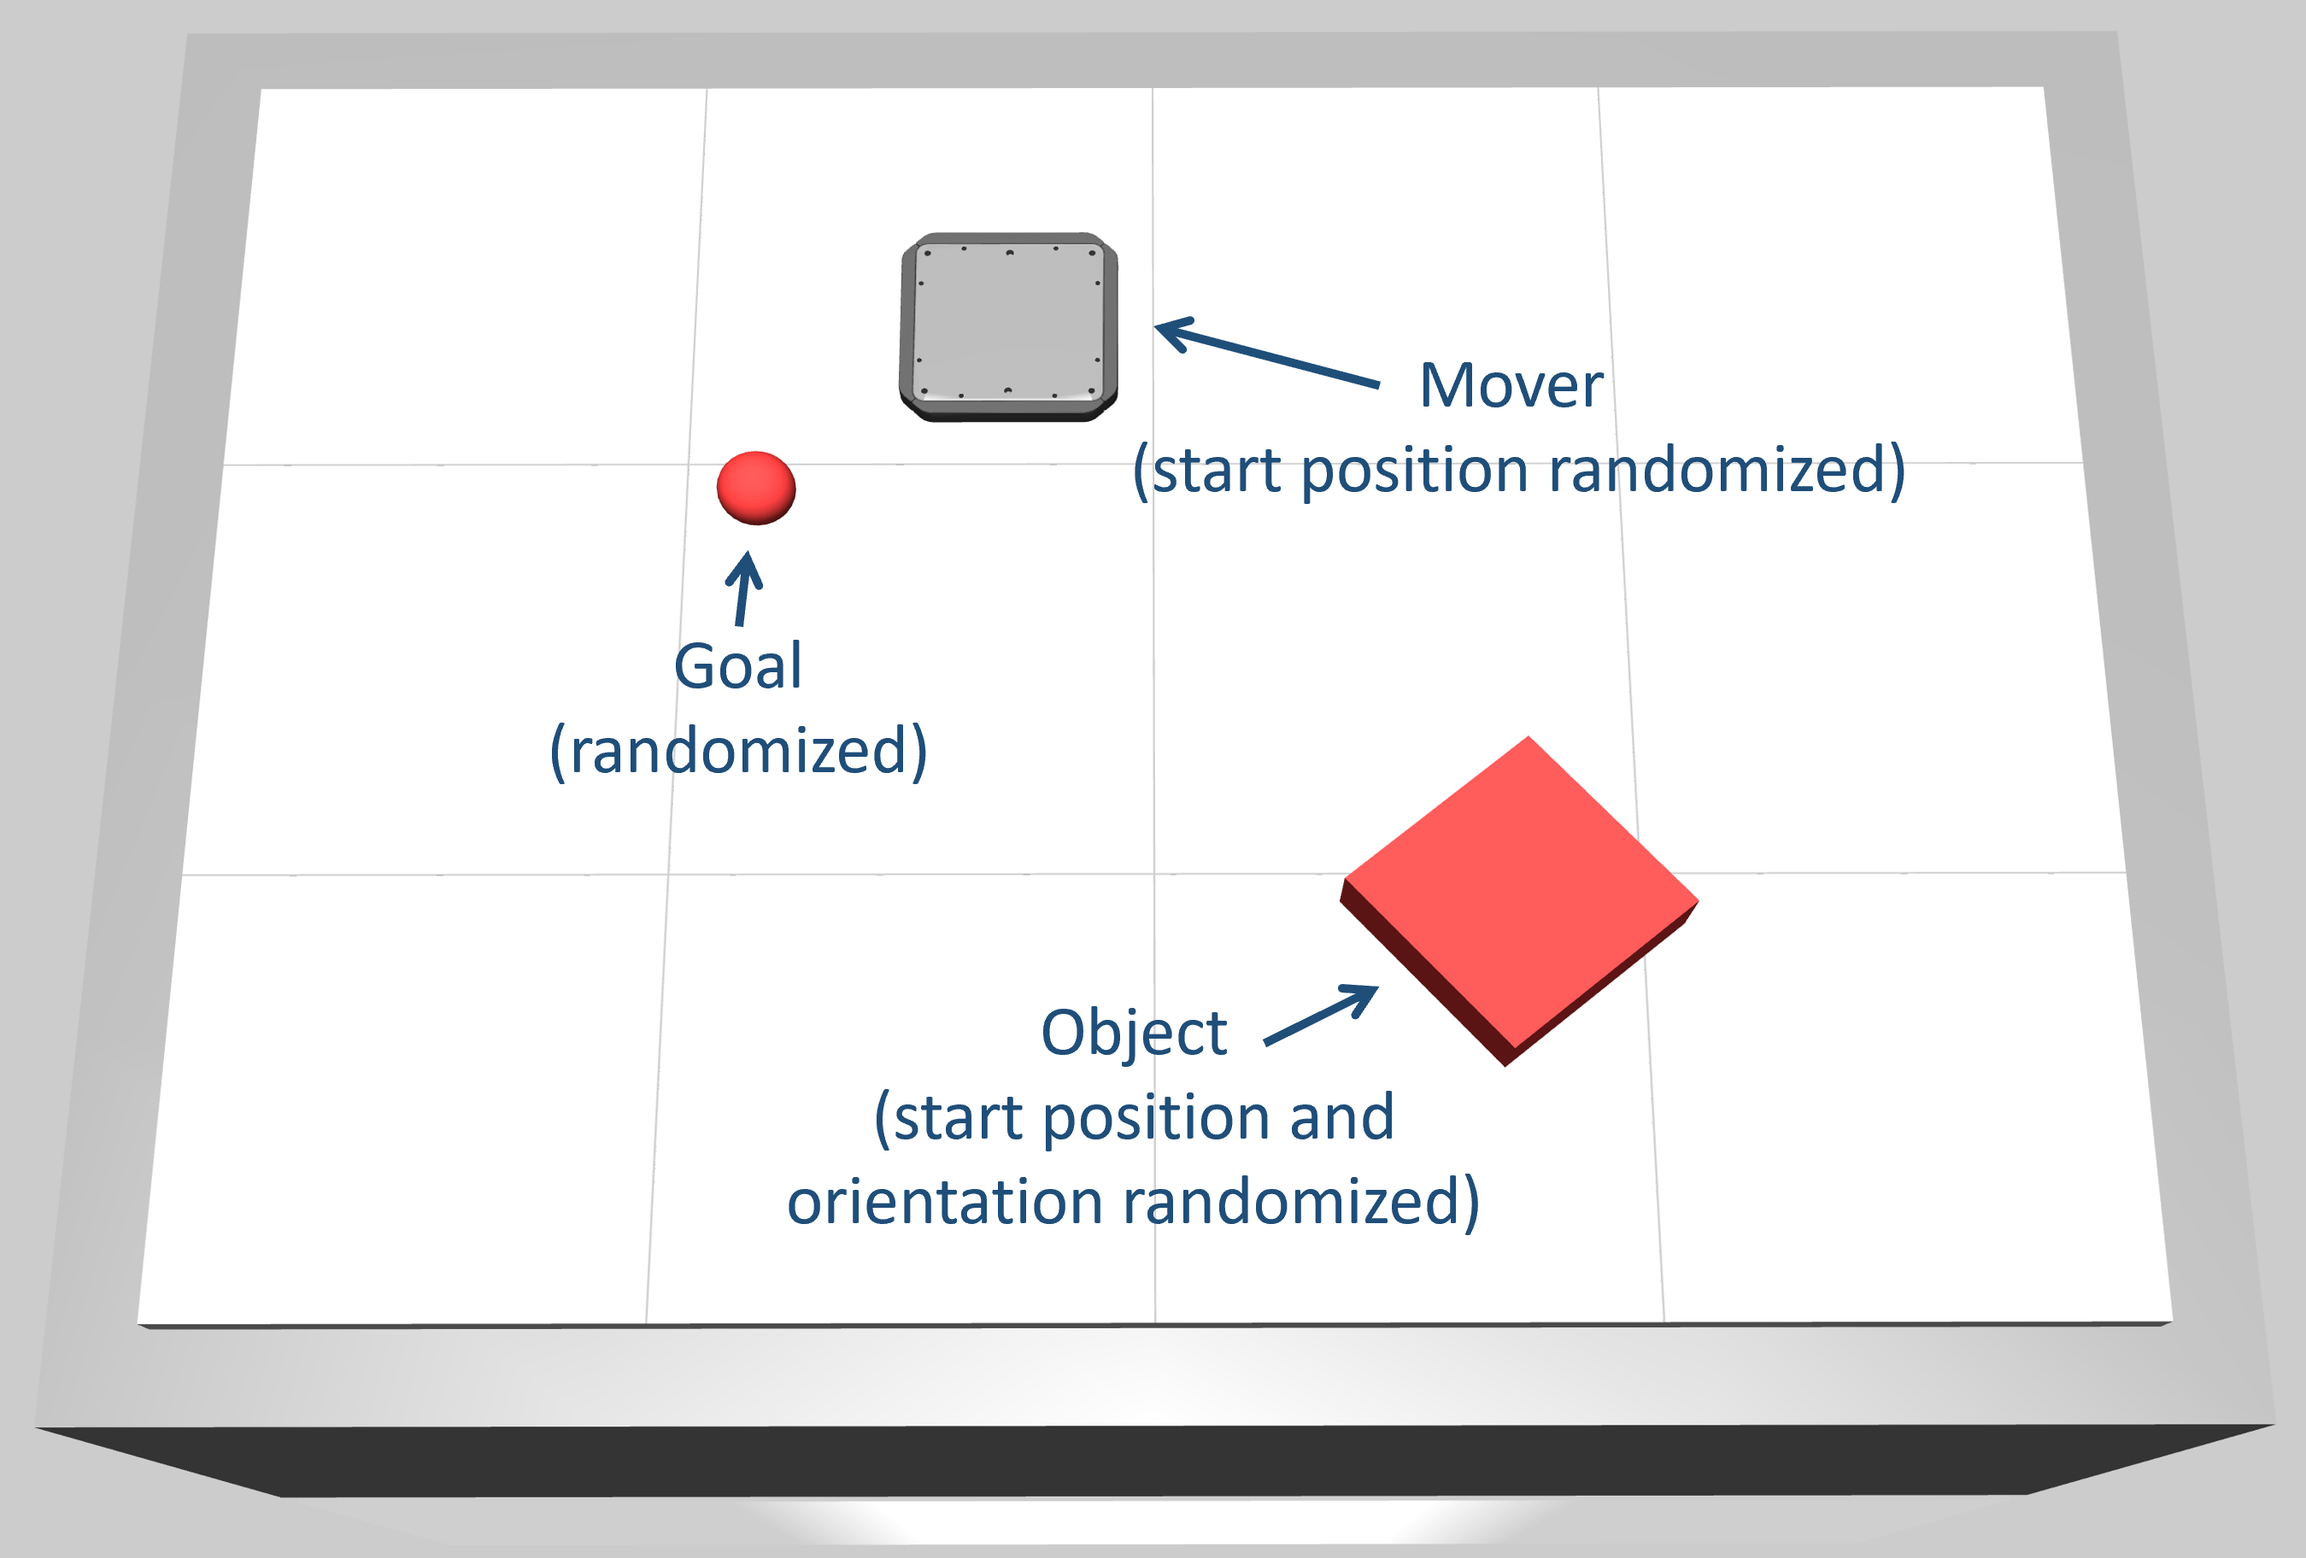
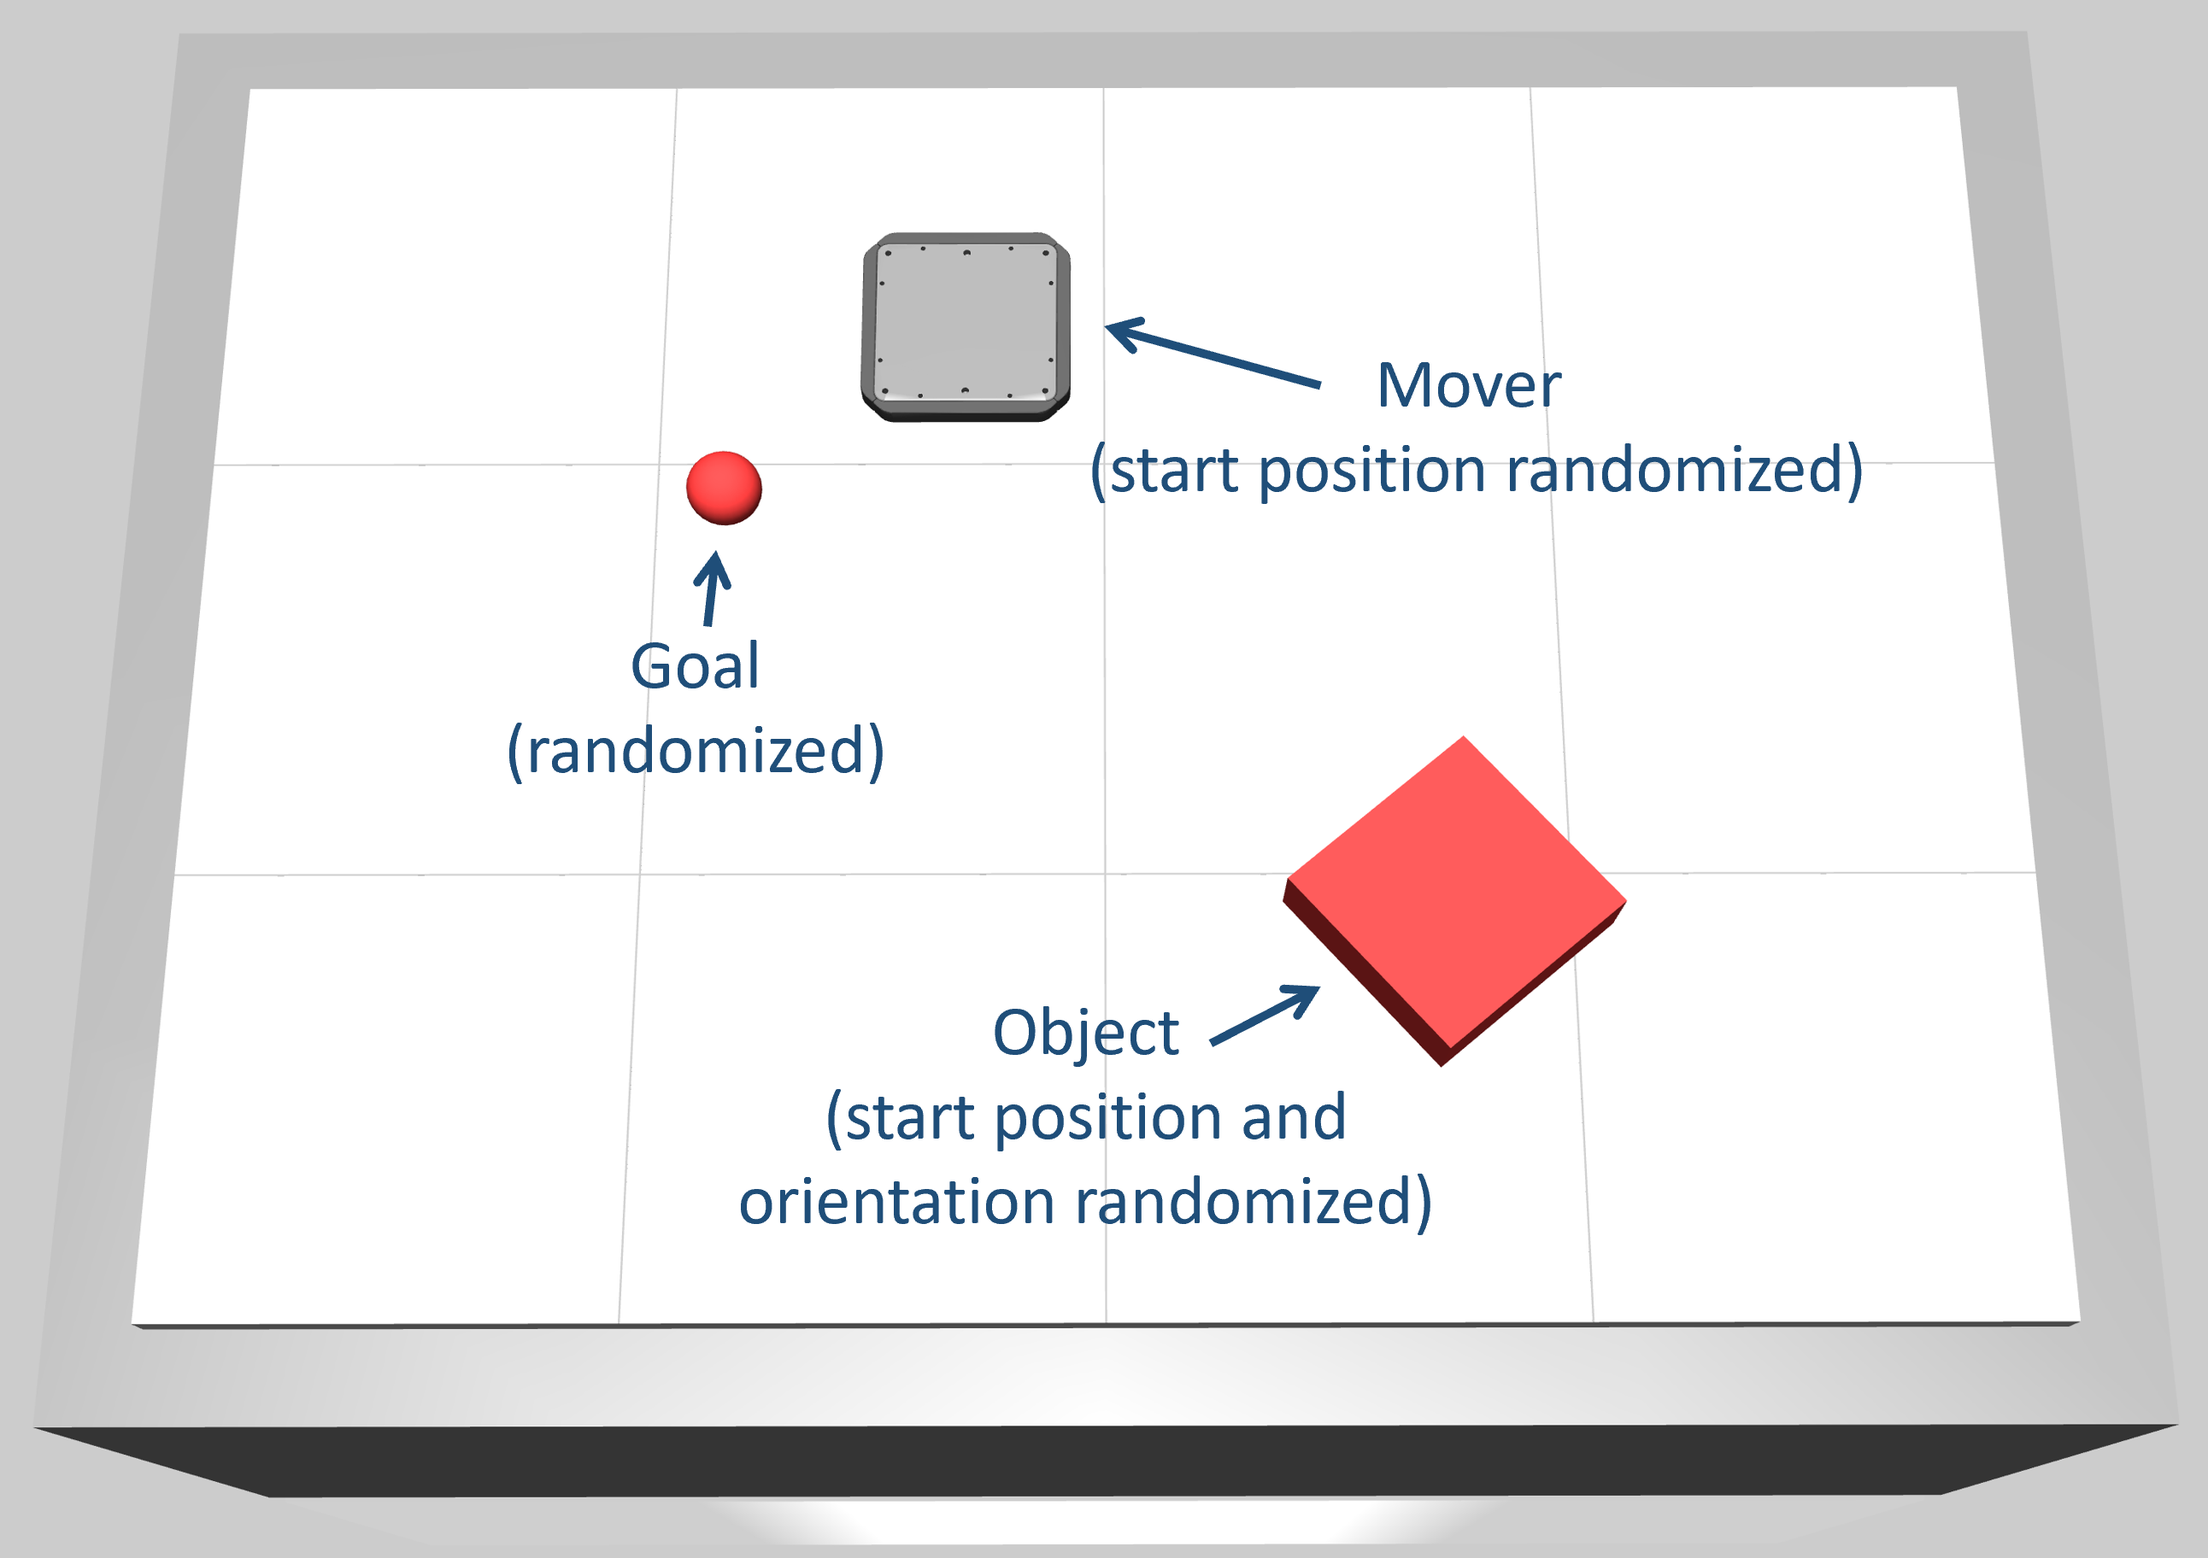
Add documentation for Push-X and Push-L environments (#2)
* Add documentation for Push-X and Push-L environments

* update env images and fix image paths

* add gym.register_envs to env basic usage

---------

Changed region(s): [[0.3406, 0.6562, 0.6502, 0.8125], [0.4954, 0.2188, 0.8359, 0.3438], [0.2167, 0.4062, 0.4025, 0.5]]

diff --git a/magbotsim/__init__.py b/magbotsim/__init__.py
@@ -63,31 +63,24 @@ def register_gymnasium_envs():
             entry_point=f'magbotsim.rl_envs.object_manipulation.pushing.state_based_push_box_env:StateBasedPushBoxEnvB{i}',
         )
 
-    register(
-        id='StateBasedPushTEnv-v0',
-        entry_point='magbotsim.rl_envs.object_manipulation.pushing.state_based_push_t_env:StateBasedPushTEnv',
-        max_episode_steps=50,
-    )
+    # Letter-Pushing Envs
+    for letter in ['t', 'x', 'l']:
+        env_name = f'StateBasedPush{letter.upper()}Env'
+        path = f'magbotsim.rl_envs.object_manipulation.pushing.state_based_push_{letter}_env'
 
-    # Push T Benchmarks
-    for i in range(len(BENCHMARK_PLANNING_LAYOUTS)):
+        # Base Environment
         register(
-            id=f'StateBasedPushTEnvB{i}-v0',
-            entry_point=f'magbotsim.rl_envs.object_manipulation.pushing.state_based_push_t_env:StateBasedPushTEnvB{i}',
+            id=f'{env_name}-v0',
+            entry_point=f'{path}:{env_name}',
+            max_episode_steps=50,
         )
 
-    register(
-        id='StateBasedPushXEnv-v0',
-        entry_point='magbotsim.rl_envs.object_manipulation.pushing.state_based_push_x_env:StateBasedPushXEnv',
-        max_episode_steps=50,
-    )
-
-    # Push X Benchmarks
-    for i in range(len(BENCHMARK_PLANNING_LAYOUTS)):
-        register(
-            id=f'StateBasedPushXEnvB{i}-v0',
-            entry_point=f'magbotsim.rl_envs.object_manipulation.pushing.state_based_push_x_env:StateBasedPushXEnvB{i}',
-        )
+        # Benchmark Environments
+        for i in range(len(BENCHMARK_PLANNING_LAYOUTS)):
+            register(
+                id=f'{env_name}B{i}-v0',
+                entry_point=f'{path}:{env_name}B{i}',
+            )
 
 
 register_gymnasium_envs()

diff --git a/docs/environments/state_based_push_x_env.rst b/docs/environments/state_based_push_x_env.rst
@@ -1,20 +1,23 @@
-.. _state_based_push_box_env:
+.. _state_based_push_x_env:
 
-State-Based Push-Box Environment
-================================
+State-Based Push-X Environment
+==============================
 
-The ``StateBasedPushBoxEnv`` is an object pushing environment with a T-shaped object:
+The ``StateBasedPushXEnv`` is an object pushing environment with an X-shaped object:
 
-.. image:: ../_static/envs/img_push_box_env_1_mover.png
+.. image:: ../_static/envs/img_push_x_env_1_mover.png
     :width: 40%
     :align: center
 
-This environment is a preconfigured version of :ref:`state_based_global_pushing_env` specifically designed for the box pushing task, 
-similar to the ``FetchPush``-Environment contained in the `Gymnasium-Robotics <https://robotics.farama.org/envs/fetch/push/>`_ library 
-and introduced in `Multi-Goal Reinforcement Learning: Challenging Robotics Environments and Request for Research <https://doi.org/10.48550/arXiv.1802.09464>`_. 
-However, in this environment, the number of movers used for pushing can be configured, making it possible to control multiple movers. 
-Please refer to the :ref:`state_based_global_pushing_env` for additional information about the observation space, action space, immediate rewards, 
-episode termination/truncation, and environment reset.
+The Push-X task is a manipulation benchmark where the goal is to push an X-shaped object to a target
+pose (position and orientation). Similar to the Push-T task, this challenge requires precise control to achieve
+both translational and rotational alignment of the asymmetric object. The X-shape presents unique symmetry properties
+compared to the T-shape and L-shape, with its four-fold rotational symmetry making orientation alignment particularly
+interesting.
+
+This environment is a preconfigured version of :ref:`state_based_global_pushing_env` specifically designed for the
+Push-X manipulation task. Please refer to the :ref:`state_based_global_pushing_env` for additional information about
+the observation space, action space, immediate rewards, episode termination/truncation, and environment reset.
 
 Basic Usage
 -----------
@@ -37,11 +40,11 @@ described in the `documentation <https://stable-baselines3.readthedocs.io/en/mas
     gym.register_envs(magbotsim)
 
     render_mode = None
-    mover_params = {'size': np.array([0.113 / 2, 0.113 / 2, 0.012 / 2]), 'mass': 0.628}
-    collision_params = {'shape': 'box', 'size': np.array([0.113 / 2 + 1e-6, 0.113 / 2 + 1e-6]), 'offset': 0.0, 'offset_wall': 0.0}
+    mover_params = {'size': np.array([0.155 / 2, 0.155 / 2, 0.012 / 2]), 'mass': 1.24}
+    collision_params = {'shape': 'box', 'size': np.array([0.155 / 2 + 1e-6, 0.155 / 2 + 1e-6]), 'offset': 0.0, 'offset_wall': 0.0}
     env_params = {'mover_params': mover_params, 'collision_params': collision_params, 'render_mode': render_mode}
 
-    env = gym.make('StateBasedPushBoxEnv-v0', **env_params)
+    env = gym.make('StateBasedPushXEnv-v0', **env_params)
     # copy_info_dict=True, as information about collisions is stored in the info dictionary to avoid
     # computationally expensive collision checking calculations when the data is relabeled (HER)
     model = SAC(
@@ -59,7 +62,7 @@ Version History
 
 Parameters
 ----------
-.. automodule:: magbotsim.rl_envs.object_manipulation.pushing.state_based_push_box_env
+.. automodule:: magbotsim.rl_envs.object_manipulation.pushing.state_based_push_x_env
   :members:
   :no-index:
   :show-inheritance:

diff --git a/docs/environments/state_based_push_l_env.rst b/docs/environments/state_based_push_l_env.rst
@@ -1,20 +1,22 @@
-.. _state_based_push_box_env:
+.. _state_based_push_l_env:
 
-State-Based Push-Box Environment
-================================
+State-Based Push-L Environment
+==============================
 
-The ``StateBasedPushBoxEnv`` is an object pushing environment with a T-shaped object:
+The ``StateBasedPushLEnv`` is an object pushing environment with an L-shaped object:
 
-.. image:: ../_static/envs/img_push_box_env_1_mover.png
+.. image:: ../_static/envs/img_push_l_env_1_mover.png
     :width: 40%
     :align: center
 
-This environment is a preconfigured version of :ref:`state_based_global_pushing_env` specifically designed for the box pushing task, 
-similar to the ``FetchPush``-Environment contained in the `Gymnasium-Robotics <https://robotics.farama.org/envs/fetch/push/>`_ library 
-and introduced in `Multi-Goal Reinforcement Learning: Challenging Robotics Environments and Request for Research <https://doi.org/10.48550/arXiv.1802.09464>`_. 
-However, in this environment, the number of movers used for pushing can be configured, making it possible to control multiple movers. 
-Please refer to the :ref:`state_based_global_pushing_env` for additional information about the observation space, action space, immediate rewards, 
-episode termination/truncation, and environment reset.
+The Push-L task is a manipulation benchmark where the goal is to push an L-shaped object to a target
+pose (position and orientation). Similar to the Push-T task, this challenge requires precise control to achieve
+both translational and rotational alignment of the asymmetric object. The L-shape adds unique dynamics compared
+to the T-shape due to its different mass distribution and geometric properties.
+
+This environment is a preconfigured version of :ref:`state_based_global_pushing_env` specifically designed for the
+Push-L manipulation task. Please refer to the :ref:`state_based_global_pushing_env` for additional information about
+the observation space, action space, immediate rewards, episode termination/truncation, and environment reset.
 
 Basic Usage
 -----------
@@ -37,11 +39,11 @@ described in the `documentation <https://stable-baselines3.readthedocs.io/en/mas
     gym.register_envs(magbotsim)
 
     render_mode = None
-    mover_params = {'size': np.array([0.113 / 2, 0.113 / 2, 0.012 / 2]), 'mass': 0.628}
-    collision_params = {'shape': 'box', 'size': np.array([0.113 / 2 + 1e-6, 0.113 / 2 + 1e-6]), 'offset': 0.0, 'offset_wall': 0.0}
+    mover_params = {'size': np.array([0.155 / 2, 0.155 / 2, 0.012 / 2]), 'mass': 1.24}
+    collision_params = {'shape': 'box', 'size': np.array([0.155 / 2 + 1e-6, 0.155 / 2 + 1e-6]), 'offset': 0.0, 'offset_wall': 0.0}
     env_params = {'mover_params': mover_params, 'collision_params': collision_params, 'render_mode': render_mode}
 
-    env = gym.make('StateBasedPushBoxEnv-v0', **env_params)
+    env = gym.make('StateBasedPushLEnv-v0', **env_params)
     # copy_info_dict=True, as information about collisions is stored in the info dictionary to avoid
     # computationally expensive collision checking calculations when the data is relabeled (HER)
     model = SAC(
@@ -59,7 +61,7 @@ Version History
 
 Parameters
 ----------
-.. automodule:: magbotsim.rl_envs.object_manipulation.pushing.state_based_push_box_env
+.. automodule:: magbotsim.rl_envs.object_manipulation.pushing.state_based_push_l_env
   :members:
   :no-index:
   :show-inheritance:

diff --git a/docs/environments/state_based_global_pushing_env.rst b/docs/environments/state_based_global_pushing_env.rst
@@ -177,6 +177,8 @@ described in the `documentation <https://stable-baselines3.readthedocs.io/en/mas
     from stable_baselines3 import SAC, HerReplayBuffer
     import magbotsim
 
+    gym.register_envs(magbotsim)
+
     render_mode = None
     mover_params = {'size': np.array([0.113 / 2, 0.113 / 2, 0.012 / 2]), 'mass': 0.628}
     collision_params = {'shape': 'box', 'size': np.array([0.113 / 2 + 1e-6, 0.113 / 2 + 1e-6]), 'offset': 0.0, 'offset_wall': 0.0}

diff --git a/docs/environments/state_based_static_obstacle_pushing_env.rst b/docs/environments/state_based_static_obstacle_pushing_env.rst
@@ -130,6 +130,8 @@ described in the `documentation <https://stable-baselines3.readthedocs.io/en/mas
     from stable_baselines3 import SAC, HerReplayBuffer
     import magbotsim
 
+    gym.register_envs(magbotsim)
+
     render_mode = None
     mover_params = {'size': np.array([0.113 / 2, 0.113 / 2, 0.012 / 2]), 'mass': 0.628}
     collision_params = {'shape': 'box', 'size': np.array([0.113 / 2 + 1e-6, 0.113 / 2 + 1e-6]), 'offset': 0.0, 'offset_wall': 0.0}

diff --git a/docs/environments/state_based_push_t_env.rst b/docs/environments/state_based_push_t_env.rst
@@ -37,6 +37,8 @@ described in the `documentation <https://stable-baselines3.readthedocs.io/en/mas
     from stable_baselines3 import SAC, HerReplayBuffer
     import magbotsim
 
+    gym.register_envs(magbotsim)
+
     render_mode = None
     mover_params = {'size': np.array([0.113 / 2, 0.113 / 2, 0.012 / 2]), 'mass': 0.628}
     collision_params = {'shape': 'box', 'size': np.array([0.113 / 2 + 1e-6, 0.113 / 2 + 1e-6]), 'offset': 0.0, 'offset_wall': 0.0}

diff --git a/docs/environments/long_horizon_global_trajectory_planning_env.rst b/docs/environments/long_horizon_global_trajectory_planning_env.rst
@@ -136,6 +136,8 @@ To use the example, please install Stable-Baselines3 as described in the
     from stable_baselines3 import SAC, HerReplayBuffer
     import magbotsim
 
+    gym.register_envs(magbotsim)
+
     render_mode = None
     mover_params = {'size': np.array([0.113 / 2, 0.113 / 2, 0.012 / 2]), 'mass': 0.628}
     collision_params = {'shape': 'box', 'size': np.array([0.113 / 2 + 1e-6, 0.113 / 2 + 1e-6]), 'offset': 0.0, 'offset_wall': 0.0}

diff --git a/docs/environments.rst b/docs/environments.rst
@@ -17,6 +17,8 @@ A detailed documentation of all environments can be found in the following subse
 
    environments/state_based_global_pushing_env
    environments/state_based_push_t_env
+   environments/state_based_push_x_env
+   environments/state_based_push_l_env
    environments/state_based_push_box_env
    environments/state_based_static_obstacle_pushing_env
 
